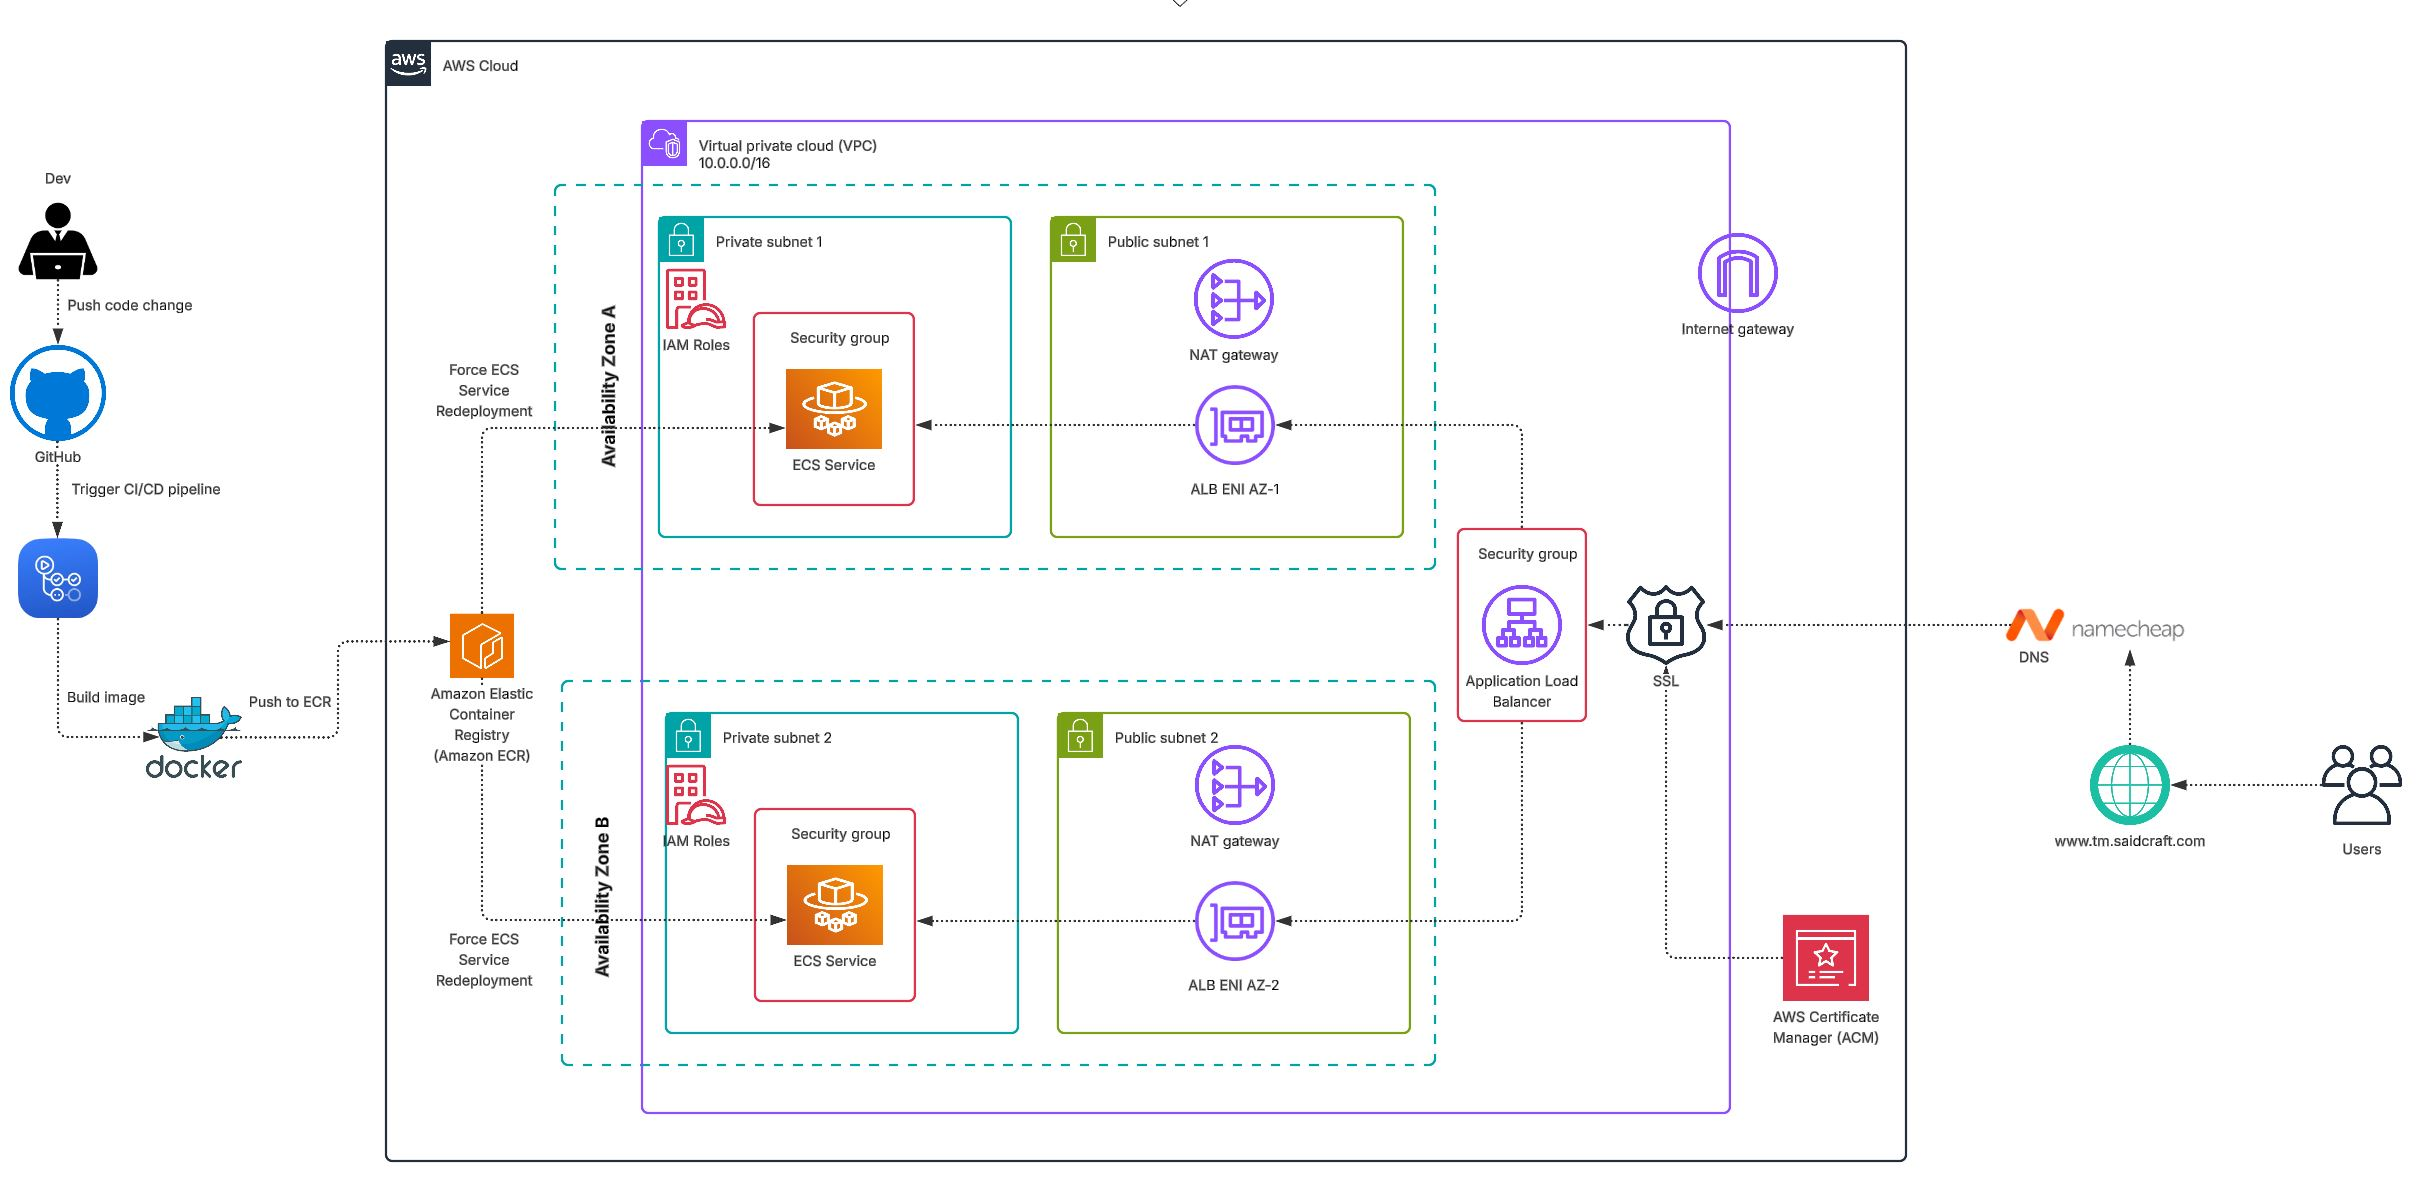
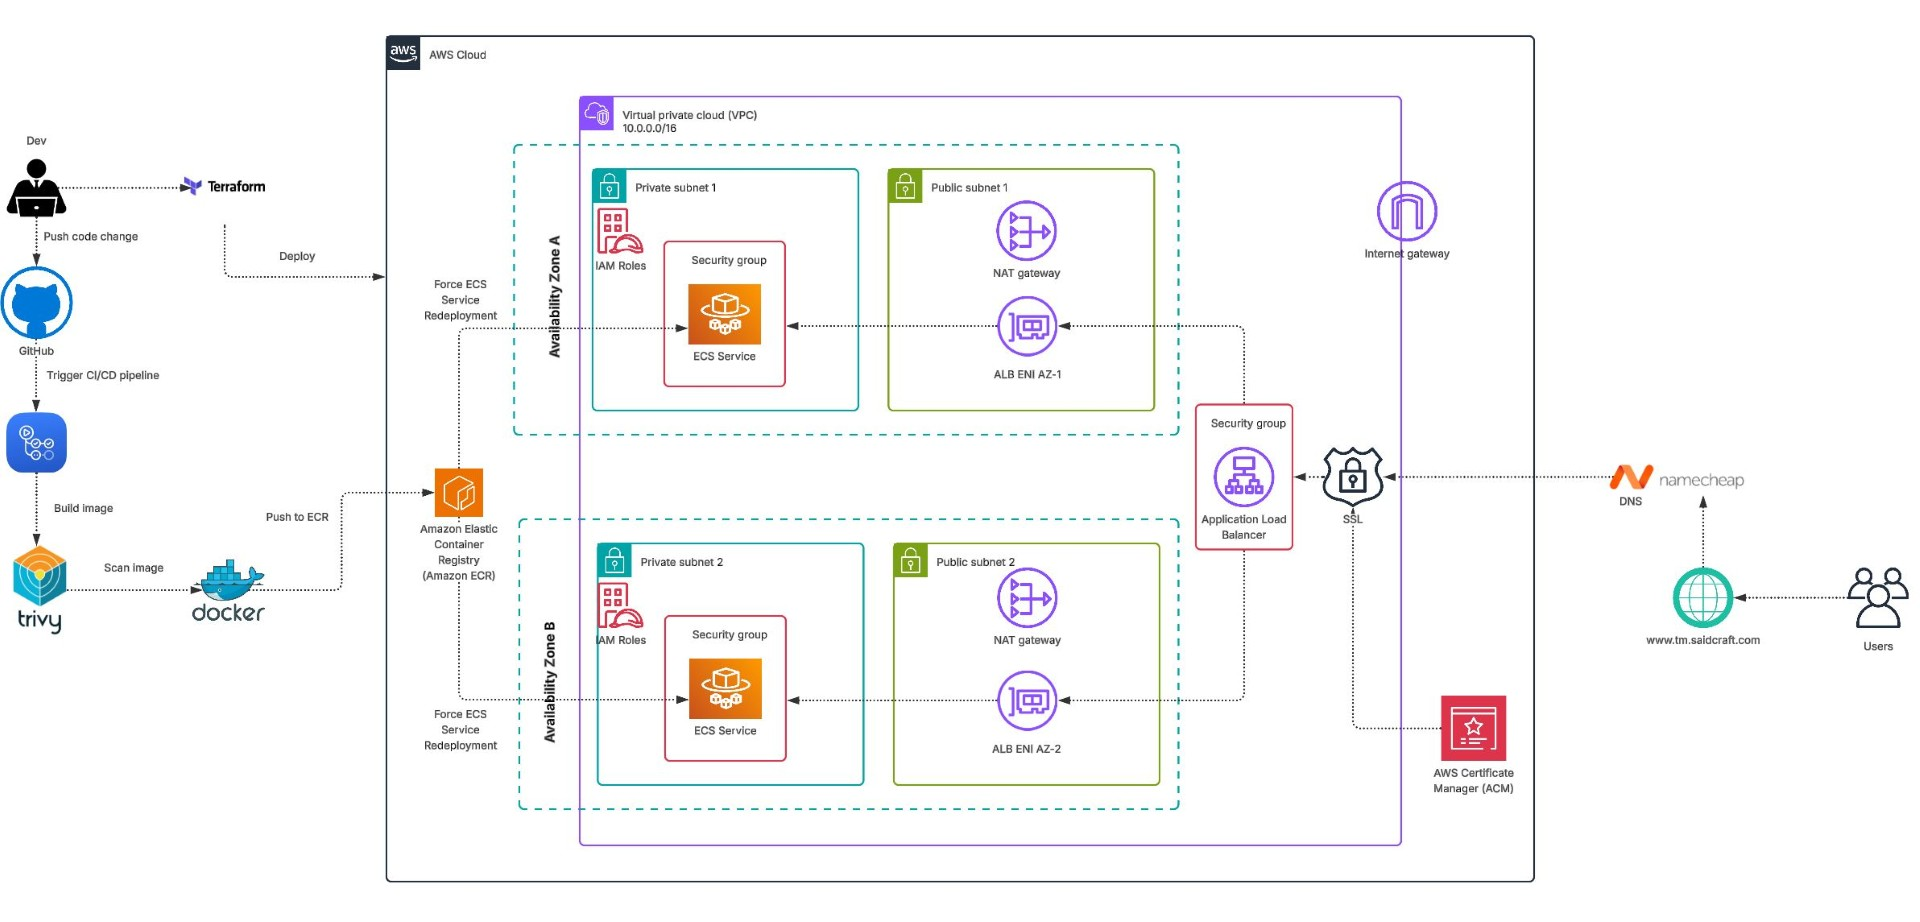
Updated codes + documentations

diff --git a/README.md b/README.md
@@ -15,37 +15,47 @@ It has been extended to demonstrate a production-grade deployment on AWS using *
 
 ## Directory Structure
 ```css
-./
+/
 ├── .github/
 │   └── workflows/
-│       └── build-image.yml
+│       ├── build-image.yml
+│       ├── terraform-apply.yml
+│       ├── terraform-destroy.yml
+│       └── terraform-plan.yml
 ├── app/
-├── modules/
-│   ├── alb/
-│   │   ├── main.tf
-│   │   ├── outputs.tf
-│   │   └── variables.tf
-│   ├── ecs/
-│   │   ├── main.tf
-│   │   ├── outputs.tf
-│   │   └── variables.tf
-│   ├── security_groups/
-│   │   ├── main.tf
-│   │   ├── outputs.tf
-│   │   └── variables.tf
-│   └── vpc/
-│       ├── main.tf
-│       ├── outputs.tf
-│       └── variables.tf
 ├── src/
+├── terraform/
+│   ├── .terraform/
+│   ├── modules/
+│   │   ├── alb/
+│   │   │   ├── main.tf
+│   │   │   ├── outputs.tf
+│   │   │   └── variables.tf
+│   │   ├── ecr/
+│   │   │   ├── main.tf
+│   │   │   ├── outputs.tf
+│   │   │   └── variables.tf
+│   │   ├── ecs/
+│   │   │   ├── main.tf
+│   │   │   ├── outputs.tf
+│   │   │   └── variables.tf
+│   │   ├── security_groups/
+│   │   │   ├── main.tf
+│   │   │   ├── outputs.tf
+│   │   │   └── variables.tf
+│   │   └── vpc/
+│   │       ├── main.tf
+│   │       ├── outputs.tf
+│   │       └── variables.tf
+│   ├── .terraform.lock.hcl
+│   ├── main.tf
+│   ├── outputs.tf
+│   ├── providers.tf
+│   ├── terraform.tfvars
+│   └── variables.tf
 ├── .gitignore
-├── .terraform.lock.hcl
 ├── Dockerfile
-├── main.tf
-├── outputs.tf
-├── providers.tf
-├── README.md
-└── variables.tf
+└── README.md
 ```
 
 
@@ -55,7 +65,8 @@ It has been extended to demonstrate a production-grade deployment on AWS using *
 - Modular Terraform structure
 - ECS Deployement on private subnets
 - Public-facing HTTPS via Application load balancer and Amazon Certificate Manager
-- GitHub actions for CI/CD (Build,push, deploy)
+- Security scanning using Trivy in Docker image build pipeline
+- CI/CD separation: individual workflows for plan, apply, and destroy
 - DNS Configuration for custom domain access
 
 
@@ -152,7 +163,7 @@ terraform init
 terraform plan
 terraform apply
 ```
-Terraform will provision all infrasrtucture and output the ALB DNS.
+Terraform will provision all infrastructure and output the ALB DNS.
 
 **Note:** Your ECS tasks will initially fail because no Docker image exists in the ECR yet. Assuming your **terraform.tfvars** file is correctly configured, this will be automatically resolved once you push this project to your GitHub repository and the CI/CD pipeline runs — building and pushing the image to ECR.
 
@@ -163,8 +174,7 @@ After a few minutes, your site will be live at:
 ```https://tm.yourdomain.com```
 
 ### 7. Deploy CI/CD Pipeline
-Push this project to your GitHub repository and the CI/CD pipeline will build and push the Docker image to ECR, and redeploy the ECS service automatically.
-
+Push this project to your GitHub repository. Once the Terraform Apply pipeline completes successfully, the image build pipeline will trigger — building the Docker image, scanning it with Trivy, pushing it to Amazon ECR, and making the new image available to ECS for deployment.
 
 ## Live Site & Screenshots Showcase
 
@@ -175,8 +185,17 @@ Push this project to your GitHub repository and the CI/CD pipeline will build an
 ![alt text](/src/SSL%20Lock%20Icon.JPG)
 ![alt text](/src/SSL%20Certificate.JPG)
 
-### Github Actions - Successful Run
+### Github Actions - Docker Image Successful Run
 ![alt text](/src/GitHub%20Actions%20-%20Success.JPG)
+
+### Github Actions - Terraform Plan Successful Run
+![alt text](/src/tf-plan.png)
+
+### Github Actions - Terraform Apply Successful Run
+![alt text](/src/tf-apply.png)
+
+### Github Actions - Terraform Destroy Successful Run
+![alt text](/src/tf-destroy.png)
 
 ### ECS Tasks Running
 ![alt text](/src/ECS-Tasks-Running.JPG)
